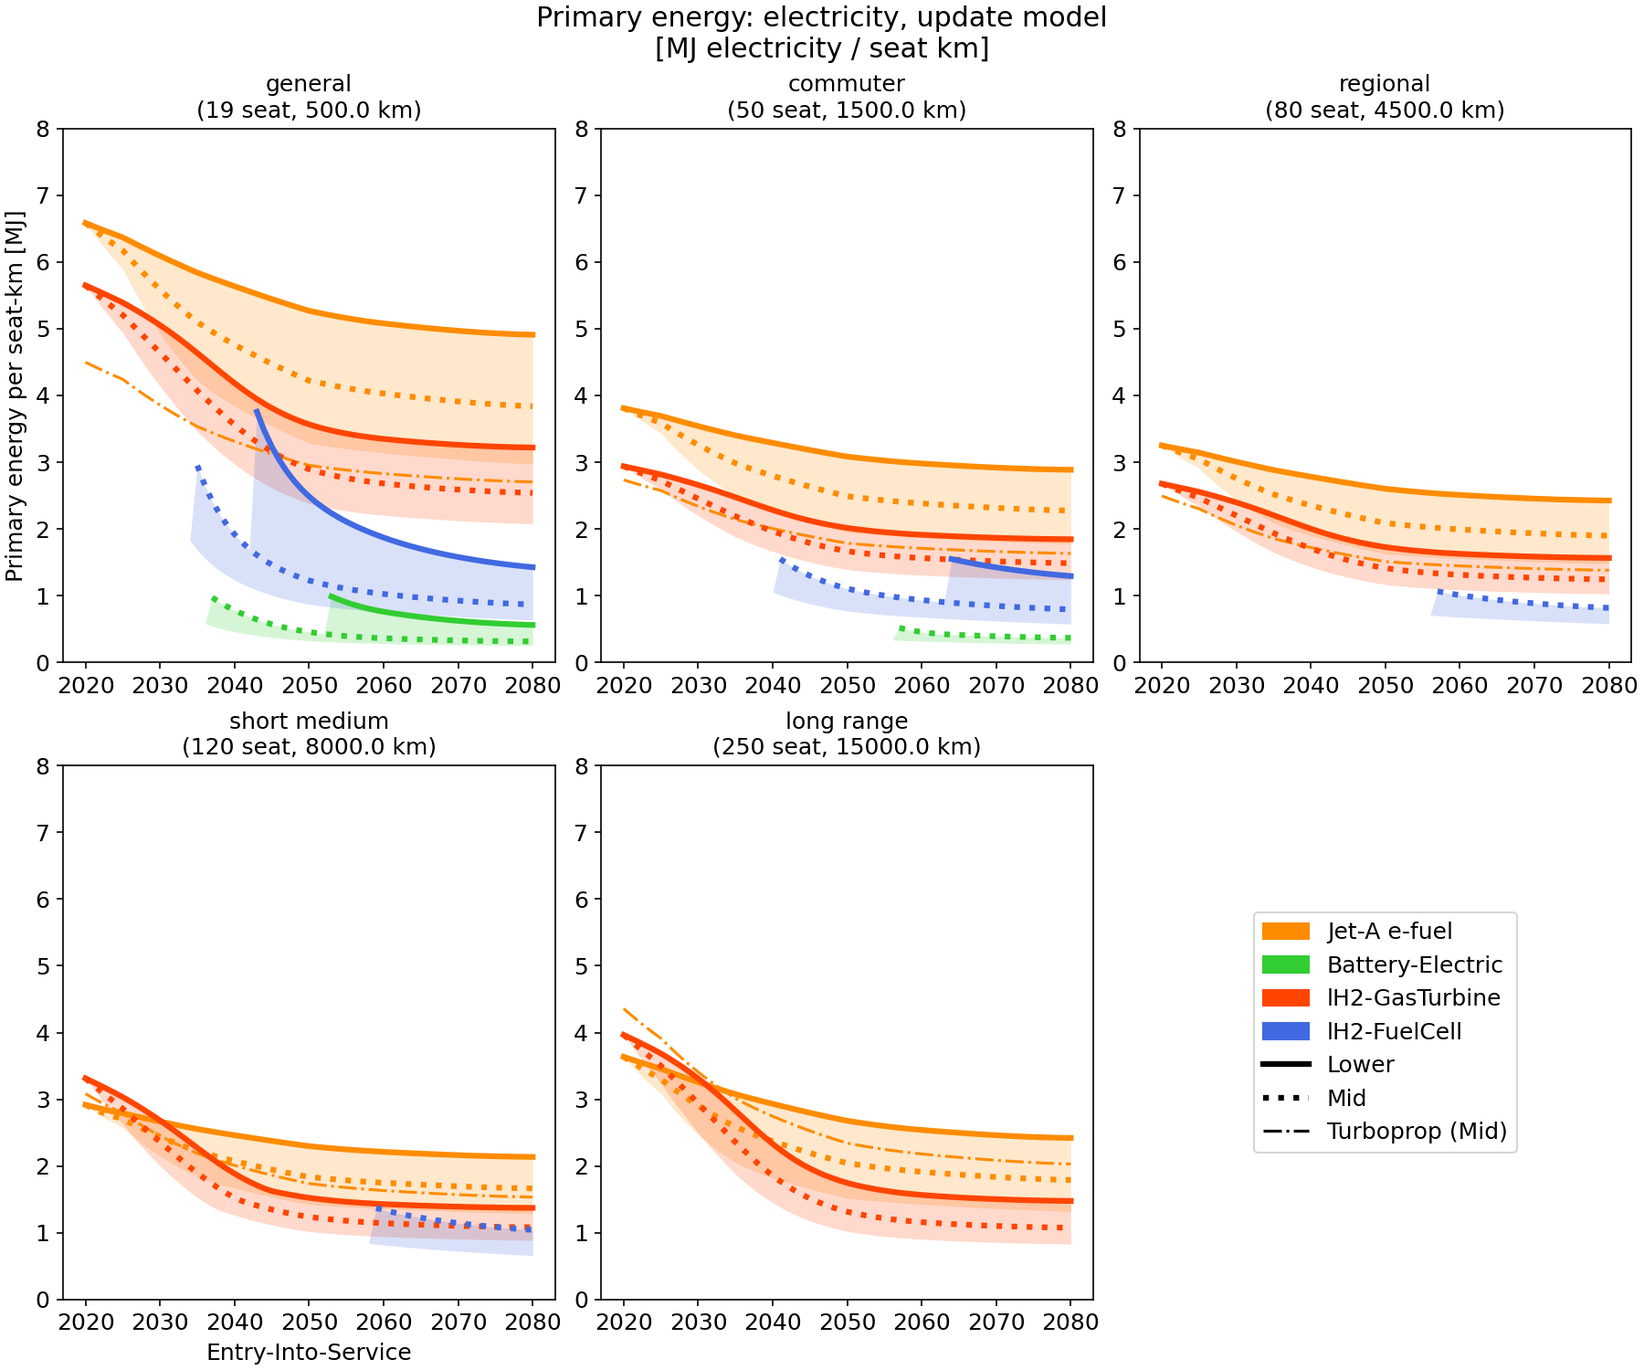
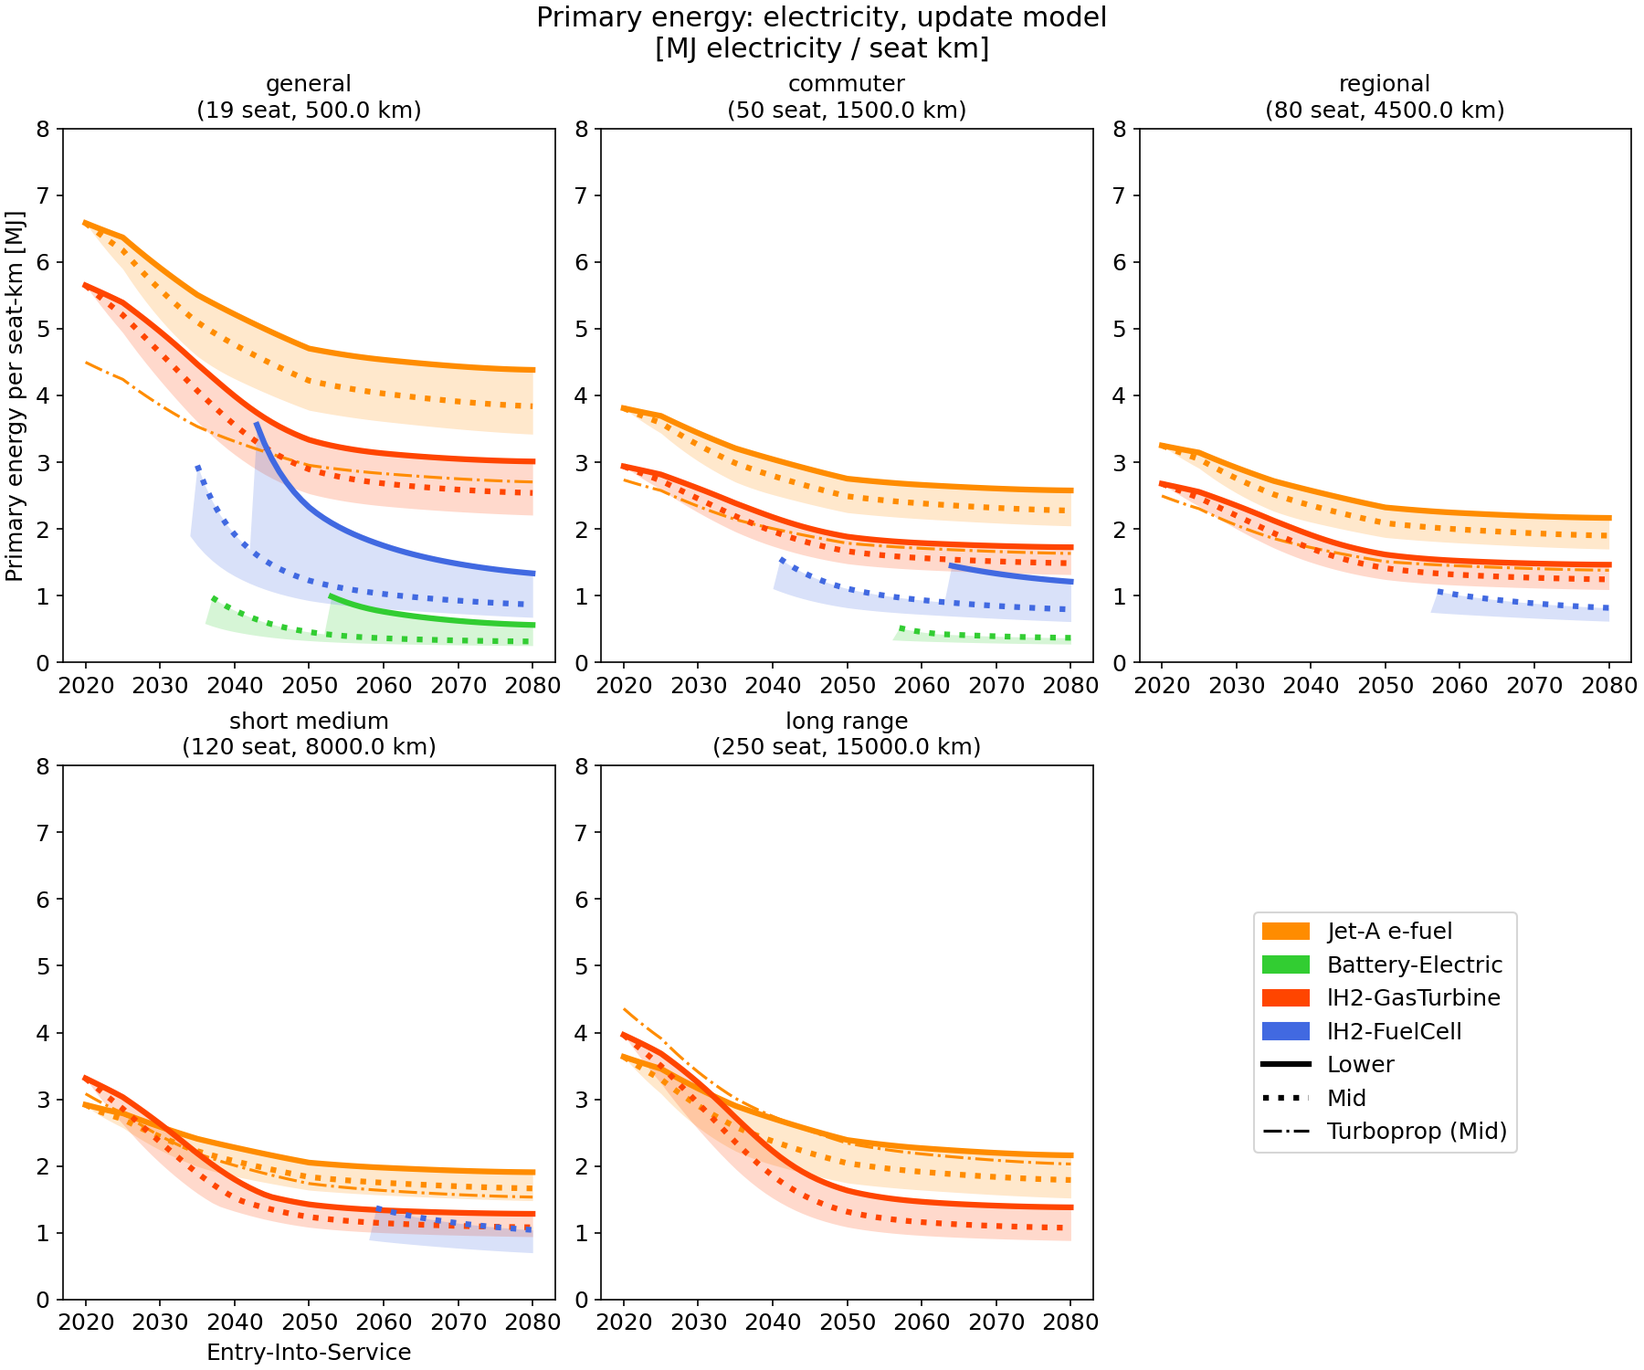
Vary only aircraft technology across the update technology scenarios
Remove the technology-dependent energy pathway bands: the update model
uses the paper pathways in every scenario. The primary energy factors
depend on time only, and the docs cite the biofuel efficiencies of
Neuling and Kaltschmitt (2018).

Claude-Session: https://claude.ai/code/session_01Hw29sAYarRQ5FySDmhvs7g

diff --git a/tests/test_update_aircraft_model.py b/tests/test_update_aircraft_model.py
@@ -31,11 +31,9 @@ from noads.application.base_objects import initialize_base_objects
 from noads.application.base_objects import lh2_tank_tech_params_lower_mid_upper
 from noads.application.base_objects import tech_params_lower_mid_upper_2020_2040_2060
 from noads.application.base_objects import (
-    update_pathway_efficiencies_lower_mid_upper_2025_2035_2050,
-)
-from noads.application.base_objects import (
     update_tech_params_lower_mid_upper_2020_2040_2060_2080,
 )
+from noads.application.primary_energy import primary_energy_factors
 from noads.application.scenario_setup import single_scenario_setup
 from noads.core.models.fleet.aircraft_design import AircraftDesign
 from noads.core.models.fleet.aircraft_tech_parameter import AircraftTechParameter
@@ -487,21 +485,11 @@ def test_climb_at_powertrain_efficiency():
     assert float(consistent["mtow"]) > float(upstream["mtow"])
 
 
-def test_update_pathway_efficiency_bands():
-    """Mid is the paper, the scenarios share their 2025 value, and the gaps to Mid
-    never shrink, Lower below and Upper above."""
-    for name, (
-        lower,
-        mid,
-        upper,
-    ) in update_pathway_efficiencies_lower_mid_upper_2025_2035_2050.items():
-        assert lower[0] == mid[0] == upper[0], name
-        gaps_lower = np.subtract(mid, lower)
-        gaps_upper = np.subtract(upper, mid)
-        assert np.all(np.diff(gaps_lower) >= 0.0), name
-        assert np.all(np.diff(gaps_upper) >= 0.0), name
-        assert np.all(gaps_lower >= 0.0), name
-        assert np.all(gaps_upper >= 0.0), name
+def test_primary_energy_factors():
+    """Chained electricity per MJ of e-fuel and LH2, as in the paper pathways."""
+    factors = primary_energy_factors([2025.0, 2050.0, 2080.0])
+    np.testing.assert_allclose(factors["E-fuel"], [3.31, 2.80, 2.80], atol=0.01)
+    np.testing.assert_allclose(factors["LH2"], [1.63, 1.49, 1.49], atol=0.01)
 
 
 def test_engine_efficiency_factor():
@@ -516,3 +504,26 @@ def test_engine_efficiency_factor():
         dict(FC_SYSTEM), dict(REGIONAL)
     )
     assert float(same["mission_enrg"]) == float(fuel_cell["mission_enrg"])
+
+
+def test_update_pathways_are_those_of_the_paper():
+    """The technology scenarios of the update model vary aircraft technology only."""
+    inputs = []
+    for aircraft_model in ("paper", "update"):
+        scenario, *_ = single_scenario_setup(
+            "pathways",
+            "SSP2-26",
+            technology_index=0,
+            aircraft_model=aircraft_model,
+            compile_jit=False,
+        )
+        defaults = scenario.discipline.default_input_data
+        inputs.append({
+            name: np.asarray(value)
+            for name, value in defaults.items()
+            if name.endswith(".efficiency")
+        })
+    assert inputs[0].keys() == inputs[1].keys()
+    assert inputs[0]
+    for name, value in inputs[0].items():
+        np.testing.assert_allclose(inputs[1][name], value, err_msg=name)

diff --git a/docs/examples/models/energy/plot_primary_energy_update.py b/docs/examples/models/energy/plot_primary_energy_update.py
@@ -20,7 +20,6 @@ Primary energy of the energy carriers, update model
 """
 
 from matplotlib.lines import Line2D
-from matplotlib.patches import Patch
 from matplotlib.pyplot import subplots
 from numpy import linspace
 
@@ -32,13 +31,13 @@ from noads.application.primary_energy import primary_energy_factors
 # -------------------------------
 # Primary energy (oil, biomass or grid electricity, as in the paper) consumed per MJ of
 # final energy delivered to the aircraft, for each carrier or biofuel pathway, versus
-# the year. Electrolysis, power-to-liquid and liquefaction improve with the
-# technology scenario of the update model (filled between the Upper and Lower
-# scenarios, solid line for Lower and dotted line for Mid); refining, the biofuel
-# pathways and battery charging are constant. All hydrogen is electrolytic.
+# the year. The pathways are those of the paper: electrolysis, power-to-liquid and
+# liquefaction improve until 2050, while refining, the biofuel pathways and battery
+# charging are constant. They do not depend on the technology or background
+# scenario. All hydrogen is electrolytic.
 
 years = linspace(2025, 2080, 56)
-factors = [primary_energy_factors(index, years) for index in range(3)]
+factor = primary_energy_factors(years)
 colors = {
     "Fossil kerosene": "maroon",
     "HEFA": "olivedrab",
@@ -56,25 +55,21 @@ resources = {
 
 fig, axes = subplots(1, 3, figsize=(14, 5.5), layout="constrained", sharey=True)
 fig.suptitle(
-    "Primary energy per final energy of the carriers, update model\n[MJ / MJ]",
+    "Primary energy per final energy of the carriers\n[MJ / MJ]",
     fontsize="x-large",
 )
 for ax, (resource, title) in zip(axes, resources.items()):
     carriers = [name for name, primary in CARRIERS.items() if primary == resource]
     for carrier in carriers:
-        lower, mid, upper = (factor[carrier] for factor in factors)
-        ax.fill_between(years, upper, lower, color=colors[carrier], alpha=0.2, lw=0)
-        ax.plot(years, lower, color=colors[carrier], ls="-", lw=3)
-        ax.plot(years, mid, color=colors[carrier], ls=":", lw=3)
+        ax.plot(years, factor[carrier], color=colors[carrier], lw=3)
     ax.set_title(title, fontsize="large")
     ax.set_xlabel("Year")
     ax.set_ylim(0.0, 6.0)
     ax.grid(alpha=0.3)
     ax.legend(
         handles=[
-            *(Patch(color=colors[carrier], label=carrier) for carrier in carriers),
-            Line2D([0], [0], color="k", ls="-", lw=3, label="Lower"),
-            Line2D([0], [0], color="k", ls=":", lw=3, label="Mid"),
+            Line2D([0], [0], color=colors[carrier], lw=3, label=carrier)
+            for carrier in carriers
         ],
         loc="upper right",
     )

diff --git a/src/noads/application/primary_energy.py b/src/noads/application/primary_energy.py
@@ -15,24 +15,27 @@
 # Inc., 51 Franklin Street, Fifth Floor, Boston, MA  02110-1301, USA.
 
 
-"""Primary energy per final energy of the energy carriers of the update model.
+"""Primary energy per final energy of the energy carriers.
 
 The primary energies are those of the paper: oil, biomass and (grid) electricity.
 Each factor chains the pathway efficiencies of
 :func:`~noads.application.scenario_setup.single_scenario_setup` (MJ produced per MJ of
-input), with the technology-dependent bands of the update model for electrolysis,
-power-to-liquid and liquefaction, assuming that all hydrogen is electrolytic.
+input), which depend on time only, assuming that all hydrogen is electrolytic.
 """
 
 from numpy import asarray
 from numpy import interp
 
-from noads.application.base_objects import (
-    update_pathway_efficiencies_lower_mid_upper_2025_2035_2050,
-)
-
 PATHWAY_YEARS = (2025.0, 2035.0, 2050.0)
 """Years of the time-dependent pathway efficiencies (constant outside)."""
+
+TIME_EFFICIENCIES = {
+    "Electrolysis.ELECTRICITY.efficiency": (0.71, 0.71 * 1.03, 0.71 * 1.06),
+    "Power_to_liquid.ELECTRICITY.efficiency": (1.53, 1.53 * 1.08, 1.53 * 1.16),
+    "Power_to_liquid.GAS-H2.efficiency": (0.53, 0.53 * 1.06, 0.53 * 1.12),
+    "H2_liquefaction.ELECTRICITY.efficiency": (4.54, 4.54 * 1.2, 4.54 * 1.4),
+}
+"""Time-dependent pathway efficiencies, as in the scenario setup."""
 
 CONSTANT_EFFICIENCIES = {
     "Refinery.OIL.efficiency": 0.865,
@@ -56,19 +59,17 @@ CARRIERS = {
 """Energy carriers (or biofuel pathways) and their primary energy."""
 
 
-def pathway_efficiency(name, technology_index, years):
+def pathway_efficiency(name, years):
     """Efficiency of a pathway input (MJ produced per MJ of input) versus year."""
     if name in CONSTANT_EFFICIENCIES:
         return CONSTANT_EFFICIENCIES[name] + 0.0 * asarray(years, dtype=float)
-    values = update_pathway_efficiencies_lower_mid_upper_2025_2035_2050[name]
-    return interp(years, PATHWAY_YEARS, values[technology_index])
+    return interp(years, PATHWAY_YEARS, TIME_EFFICIENCIES[name])
 
 
-def primary_energy_factors(technology_index, years):
+def primary_energy_factors(years):
     """Primary energy per final energy (MJ/MJ) of each carrier versus year.
 
     Args:
-        technology_index: The technology scenario (0: Lower, 1: Mid, 2: Upper).
         years: The years.
 
     Returns:
@@ -76,7 +77,7 @@ def primary_energy_factors(technology_index, years):
     """
 
     def inverse(name):
-        return 1.0 / pathway_efficiency(name, technology_index, years)
+        return 1.0 / pathway_efficiency(name, years)
 
     electrolysis = inverse("Electrolysis.ELECTRICITY.efficiency")
     return {

diff --git a/docs/examples/models/aircraft/plot_prospective_aircraft_update.py b/docs/examples/models/aircraft/plot_prospective_aircraft_update.py
@@ -789,8 +789,9 @@ fig7.savefig("./aircraft_update_propulsion_efficiency.png", dpi=150)
 # Primary energy per seat-km
 # --------------------------
 # The energy per seat-km of each architecture (final energy, design mission) is
-# multiplied by the primary energy per final energy of its carrier at the EIS year,
-# for the same technology scenario (:mod:`noads.application.primary_energy`). The
+# multiplied by the primary energy per final energy of its carrier at the EIS year
+# (:mod:`noads.application.primary_energy`), which depends on time only: the bands
+# come from aircraft technology only. The
 # architectures are compared per primary resource: oil for the Jet-A aircraft, biomass
 # for the Jet-A aircraft on each biofuel pathway, and electricity for the Jet-A
 # aircraft on e-fuel, the battery-electric and the two LH2 aircraft. Bands span the
@@ -798,7 +799,7 @@ fig7.savefig("./aircraft_update_propulsion_efficiency.png", dpi=150)
 # which are not in the optimized fleets, are shown by their Mid curve only
 # (dash-dotted).
 
-primary_factors = [primary_energy_factors(index, years) for index in range(3)]
+primary_factors = primary_energy_factors(years)
 
 
 def primary_curves(category, architecture, carrier):
@@ -807,7 +808,7 @@ def primary_curves(category, architecture, carrier):
         masked(
             1e-3
             * designs[category, architecture, index]["enrg_consumption"]
-            * primary_factors[index][carrier],
+            * primary_factors[carrier],
             designs[category, architecture, index]["feasible"],
         )
         for index in range(3)
@@ -823,7 +824,7 @@ def primary_figure(title, specs, ymax, reference=None):
         max_range = 1e-3 * categories_mission[category]["range"]
         if reference is not None:
             low, mid, high = (
-                current * primary_factors[1]["Fossil kerosene"][0]
+                current * primary_factors["Fossil kerosene"][0]
                 for current in category_conso[category]
             )
             ax.fill_between(

diff --git a/src/noads/application/base_objects.py b/src/noads/application/base_objects.py
@@ -392,42 +392,6 @@ def update_power_system(architecture, category):
     return power_system
 
 
-# Energy pathway efficiencies of the update model (MJ produced per MJ of input) in
-# 2025, 2035 and 2050 (held constant afterwards), for the Lower, Mid and Upper
-# technology scenarios. Mid is the paper (Wallington et al. 2024); all scenarios share
-# the 2025 value and their gap to Mid never shrinks. Sources in
-# aircraft_tech_data/pathway_literature_data.csv:
-# - electrolysis: 53-55 kWh/kg H2 for 2025 commercial systems (0.61-0.63 LHV), IRENA
-#   2050 target below 42 kWh/kg (cell, 0.79), SOEC 0.85-0.90 with heat. Lower stalls
-#   near today's best systems, Upper reaches 0.80;
-# - liquefaction: 10-15 kWh/kg LH2 for existing plants, 6.4 kWh/kg for the IDEALHY
-#   large-scale design, 2.7 kWh/kg theoretical minimum. Lower stops at 6.7 kWh/kg,
-#   Upper reaches 4.9 kWh/kg;
-# - power-to-liquid: Fischer-Tropsch synthesis about 73 % from syngas, overall
-#   power-to-liquid efficiency 35-50 %, higher with co-electrolysis (SOEC).
-update_pathway_efficiencies_lower_mid_upper_2025_2035_2050 = {
-    "Electrolysis.ELECTRICITY.efficiency": (
-        (0.71, 0.715, 0.72),
-        (0.71, 0.71 * 1.03, 0.71 * 1.06),
-        (0.71, 0.76, 0.80),
-    ),
-    "H2_liquefaction.ELECTRICITY.efficiency": (
-        (4.54, 4.75, 5.0),
-        (4.54, 4.54 * 1.2, 4.54 * 1.4),
-        (4.54, 5.75, 6.76),
-    ),
-    "Power_to_liquid.GAS-H2.efficiency": (
-        (0.53, 0.54, 0.55),
-        (0.53, 0.53 * 1.06, 0.53 * 1.12),
-        (0.53, 0.59, 0.65),
-    ),
-    "Power_to_liquid.ELECTRICITY.efficiency": (
-        (1.53, 1.58, 1.63),
-        (1.53, 1.53 * 1.08, 1.53 * 1.16),
-        (1.53, 1.75, 1.95),
-    ),
-}
-
 UNIT_POWER_RATIO_MARGIN = 0.98
 """Largest unit power ratio at the last EIS for a design to enter the update fleet."""
 

diff --git a/src/noads/application/scenario_setup.py b/src/noads/application/scenario_setup.py
@@ -28,9 +28,6 @@ from numpy import ones as np_ones
 from noads.application.background_scenario_data import get_ar6_input_data
 from noads.application.base_objects import category_lifetime
 from noads.application.base_objects import initialize_base_objects
-from noads.application.base_objects import (
-    update_pathway_efficiencies_lower_mid_upper_2025_2035_2050,
-)
 from noads.core.models.interpolation import interpolate_data
 from noads.core.models.traffic import AirTraffic
 from noads.core.scenarios.multiscenario import MultiScenario
@@ -237,14 +234,6 @@ def single_scenario_setup(
         interpolated_2025_2035_2050.update({
             "H2_liquefaction.ELECTRICITY.efficiency": (4.54, 4.54 * 1.2, 4.54 * 1.4),
         })
-    if aircraft_model == "update":
-        # technology-dependent pathway efficiencies (Mid is the paper)
-        for (
-            key,
-            bands,
-        ) in update_pathway_efficiencies_lower_mid_upper_2025_2035_2050.items():
-            if key in interpolated_2025_2035_2050:
-                interpolated_2025_2035_2050[key] = bands[technology_index]
         # if include_methane:
         #     constants.update({
         #         "NATURAL_GAS.CO2_index": 67.6,

diff --git a/docs/update/energy_pathways.md b/docs/update/energy_pathways.md
@@ -12,28 +12,23 @@
 
 # Energy pathways and primary energy
 
-## Technology-dependent pathway efficiencies
+## Energy pathways
 
-In the main paper, the efficiencies of the energy pathways depend on time only. In the
-update model, those of electrolysis, power-to-liquid and hydrogen liquefaction also
-depend on the technology scenario: Mid keeps the values of the main paper
-{cite:p}`u-wallington_green_2024`, and all scenarios share their 2025 value, their gap
-to Mid widening until 2050 (constant afterwards). The ranges come from the literature
-bundled in `noads/application/aircraft_tech_data/pathway_literature_data.csv`:
+The energy pathways of the update model are those of the main paper: the
+efficiencies of electrolysis, power-to-liquid and hydrogen liquefaction improve until
+2050 {cite:p}`u-wallington_green_2024`, and those of refining, the biofuel pathways
+and battery charging are constant. The technology scenarios of the update model vary
+aircraft technology only.
 
-| Pathway | Literature | Lower 2025 / 2035 / 2050 | Mid | Upper |
-|---|---|---|---|---|
-| Electrolysis [MJ H2 / MJ electricity] | 53 to 55 kWh/kg H2 for 2025 systems (0.61 to 0.63), IRENA 2050 target below 42 kWh/kg (0.79), SOEC 0.85 to 0.90 | 0.71 / 0.715 / 0.72 | 0.71 / 0.73 / 0.75 | 0.71 / 0.76 / 0.80 |
-| Liquefaction [MJ LH2 / MJ electricity] | 10 to 15 kWh/kg for existing plants, 6.4 kWh/kg for the IDEALHY design, 2.7 kWh/kg theoretical | 4.54 / 4.75 / 5.0 | 4.54 / 5.45 / 6.36 | 4.54 / 5.75 / 6.76 |
-| Power-to-liquid [MJ e-fuel / MJ H2] | Fischer-Tropsch synthesis about 73 % from syngas, power-to-liquid 35 to 50 % overall | 0.53 / 0.54 / 0.55 | 0.53 / 0.56 / 0.59 | 0.53 / 0.59 / 0.65 |
-| Power-to-liquid [MJ e-fuel / MJ electricity] | carbon capture and synthesis | 1.53 / 1.58 / 1.63 | 1.53 / 1.65 / 1.77 | 1.53 / 1.75 / 1.95 |
-
-The 2025 values of the main paper are already at the level of the best large-scale
-designs (47 kWh/kg H2 for electrolysis, 7.3 kWh/kg for liquefaction), above today's
-plants. The biofuel pathways (HEFA, ATJ, FT), refining and battery charging keep the
-constant efficiencies of the main paper: the ranges of their biomass-to-jet yields
-remain to be documented. The HEFA efficiency of the code (0.59, i.e. 1.69 MJ of
-biomass per MJ) differs from the table of the main paper (1.95 MJ/MJ).
+The biofuel efficiencies are the kerosene efficiencies of
+{cite:t}`u-NEULING201854` (lower heating value, all inputs), averaged over two
+feedstocks per route: 58 to 60 % for HEFA (jatropha and palm oil), 18 to 42 % for
+alcohol-to-jet (wheat straw and grain) and 19 to 21 % for Fischer-Tropsch
+biomass-to-liquid (wheat straw and willow). The overall efficiencies of these
+processes, counting their diesel, naphtha and butane co-products, are higher (90 %,
+30 to 68 % and 35 to 38 %). The HEFA efficiency of 0.59 (1.69 MJ of biomass per MJ)
+is consistent with this source; the 1.95 MJ/MJ in the table of the main paper is a
+typographical error.
 
 ## Primary energy per final energy
 
@@ -41,22 +36,21 @@ With all hydrogen produced by electrolysis, the primary energy (oil, biomass or 
 electricity, as in the main paper) consumed per MJ of final energy delivered to the
 aircraft chains the pathway efficiencies
 ({mod}`noads.application.primary_energy`): e-fuel needs 3.3 MJ of electricity per MJ
-in 2025 and 2.4 to 3.1 MJ in 2050, LH2 1.6 MJ and 1.4 to 1.6 MJ, batteries 1.02 MJ.
+in 2025 and 2.8 MJ from 2050, LH2 1.6 MJ and 1.5 MJ, batteries 1.02 MJ.
 
 ```{figure} figures/primary_energy_update.png
 :name: fig-update-primary-energy
 :width: 100%
 
-Primary energy per final energy of the energy carriers, versus year. Filled between
-the Upper and Lower scenarios, solid line for Lower and dotted line for Mid. The
-pathways do not depend on the background (SSP) scenario.
+Primary energy per final energy of the energy carriers, versus year. The pathways do
+not depend on the technology or background (SSP) scenario.
 ```
 
 ## Primary energy of prospective aircraft
 
 The primary energy per seat-km of an aircraft is its energy per seat-km (design
-mission) times the primary energy per final energy of its carrier at its EIS, for the
-same technology scenario. The architectures are compared per primary resource.
+mission) times the primary energy per final energy of its carrier at its EIS; the
+bands come from aircraft technology only. The architectures are compared per primary resource.
 
 ```{figure} figures/aircraft_update_primary_oil.png
 :name: fig-update-primary-oil
@@ -81,10 +75,11 @@ Electricity per seat-km of the Jet-A aircraft on e-fuel, of the battery-electric
 aircraft and of the LH2 aircraft (gas turbine and fuel cell).
 ```
 
-On the design missions, the new Jet-A turbofans of the update model are not more
-efficient than the 2019 fleet on the regional and long range markets: GAM V3.0
-penalizes small turbofans, the structure gains are revised downwards, and the
-take-off and climb energy is charged at the powertrain efficiency. After 2040,
+On the design missions, the new Jet-A turbofans of the update model reach the oil
+consumption of the 2019 fleet average by 2040 in the Mid scenario, thanks to the
+engine efficiency trend ({ref}`sec-update-aircraft`), but remain above it in 2025 on
+the regional and long range markets, where the design range exceeds the average
+stage length and turboprops dominate today's regional fleet. After 2040,
 LH2 gas turbines need about a third less electricity than e-fuel aircraft, fuel cell
 aircraft a third to two thirds less than LH2 gas turbines, and battery-electric
 aircraft less still, where they exist.

diff --git a/docs/update/index.md b/docs/update/index.md
@@ -28,7 +28,7 @@ all the model updates are in place.
 | Aircraft design with GAM V3.0 | available | [Aircraft design](aircraft_design.md) |
 | Powertrain scale effects and maximum power per propulsor | available | [Aircraft design](aircraft_design.md) |
 | LH2 tank gravimetric index depending on tank size and technology | available | [Aircraft design](aircraft_design.md) |
-| Technology-dependent energy pathways and primary energy | available | [Energy pathways](energy_pathways.md) |
+| Primary energy of energy carriers and aircraft | available | [Energy pathways](energy_pathways.md) |
 | Geological hydrogen | planned | [Geological hydrogen](geological_hydrogen.md) |
 | Updated optimization results | planned | |
 
